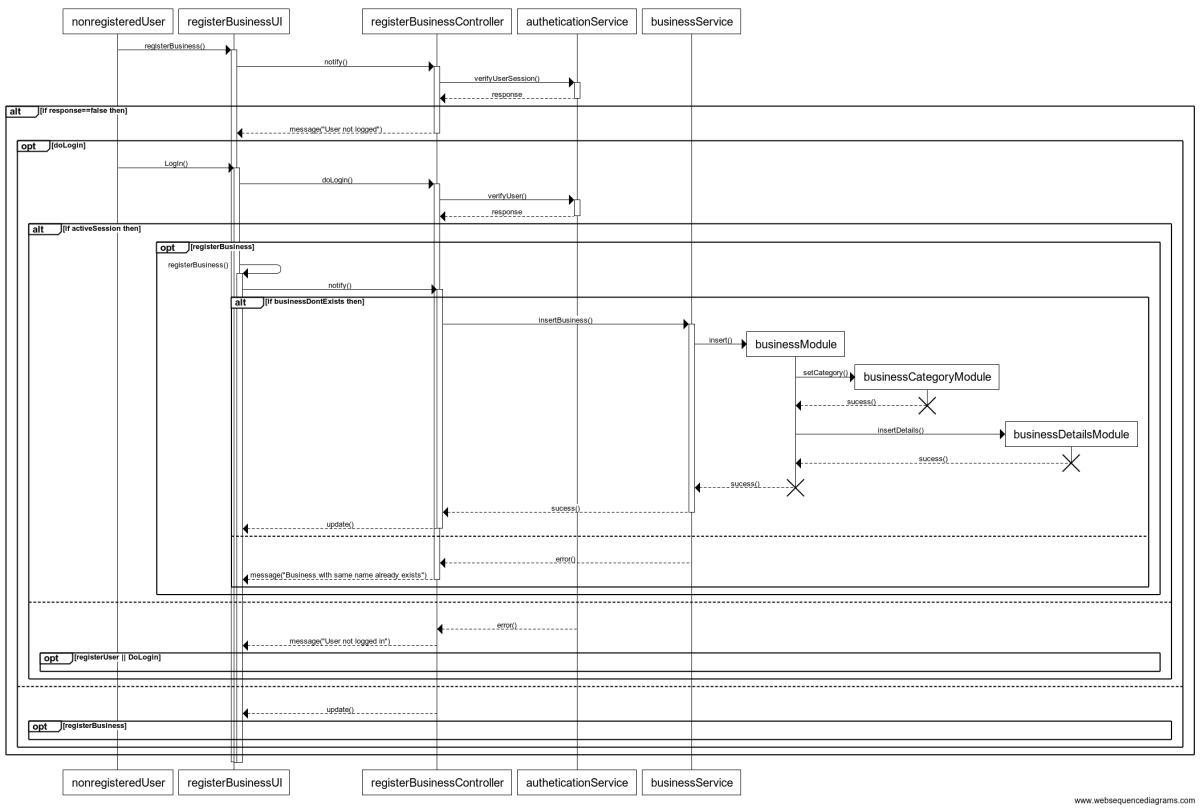
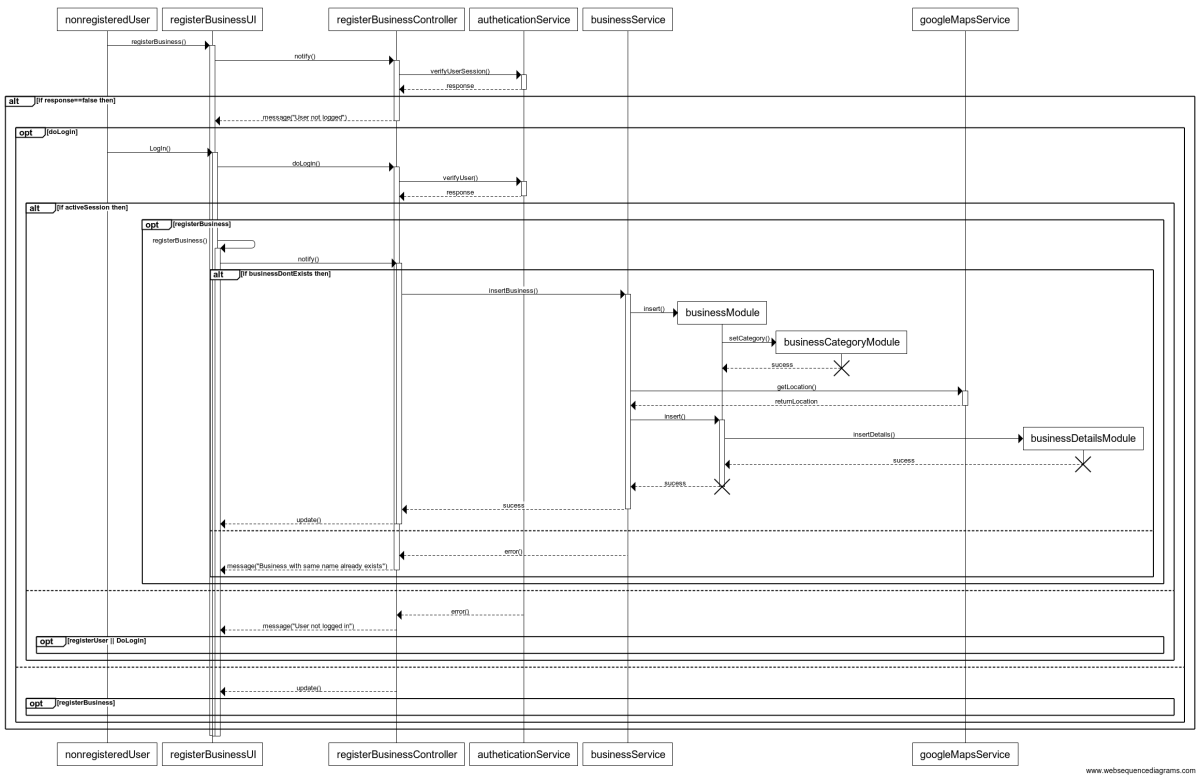
New change in documentation

diff --git a/doc/BGreenDoc_v.1.0.md b/doc/BGreenDoc_v.1.0.md
@@ -67,13 +67,15 @@ In this text I'll explain the analisys, desing, implentation and test of BGreenS
 *Register new user sequence diagram*
 ![alt text](img/registerUserSequenceDiagram.png "Logo Title Text 1")
 
-*Edit my projects list sequenceDiagram*
+*Edit projects list sequenceDiagram*
 ![alt text](img/editProjectsListSequenceDiagram.png "Logo Title Text 1")
 
-*Select businees project by id*
-![alt text](img/editProjectsListSequenceDiagram.png "Logo Title Text 1")
+*Select business with close locations*
+![alt text](img/ShowCloseLocationsProjectsList.png "Logo Title Text 1")
 
-# Forms Verification
+#Forms Verification
+
+*Html validation* :(https://validator.w3.org)
 
 # Jazmine Unit Test
 

diff --git a/README.md b/README.md
@@ -2,11 +2,13 @@
 
 ## Overview
 ## Installation
-
+  * Git
+  * Sublime Text IDE
 ## Framework and libraries
   * bower
   * npm
   * js sequence-diagram
+  * angular
 ## Link To Documentation [Project document](doc/BGreenDoc_v.1.0.md)
 
 
